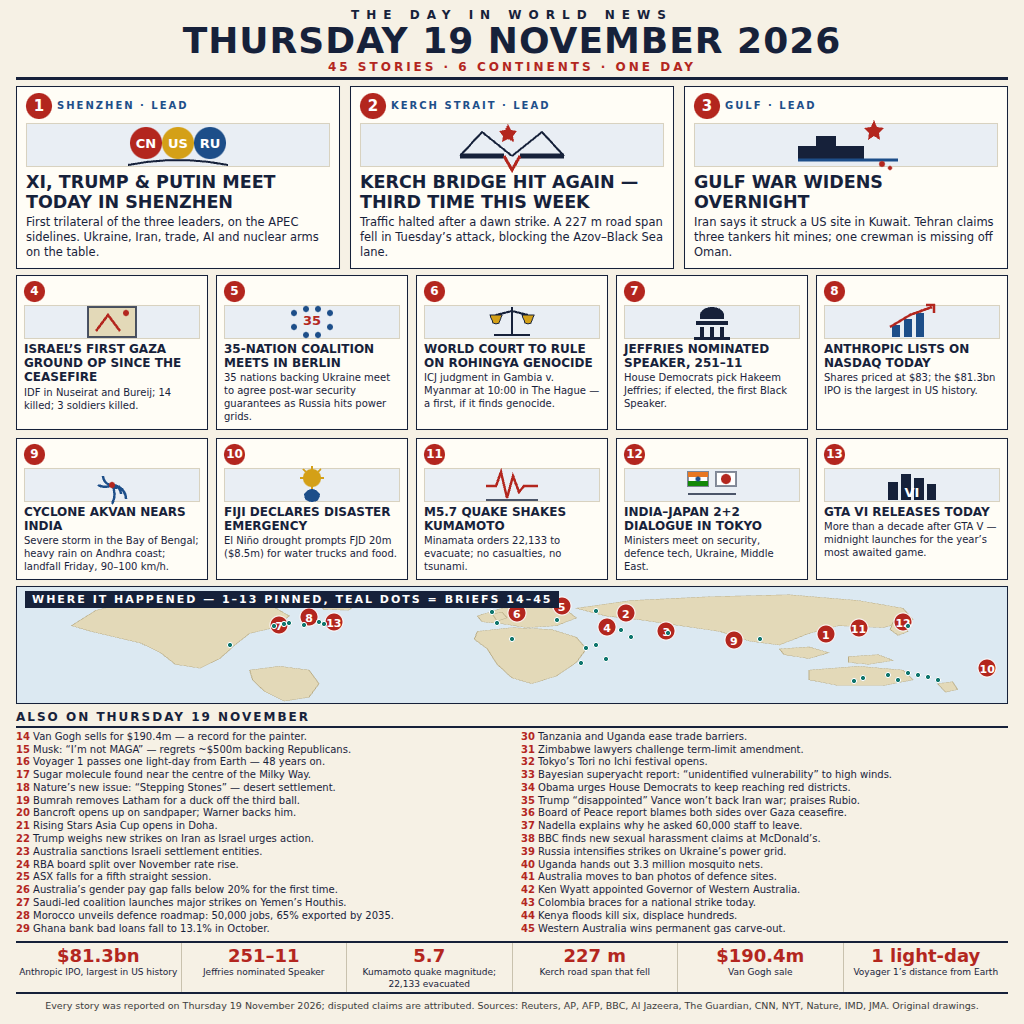
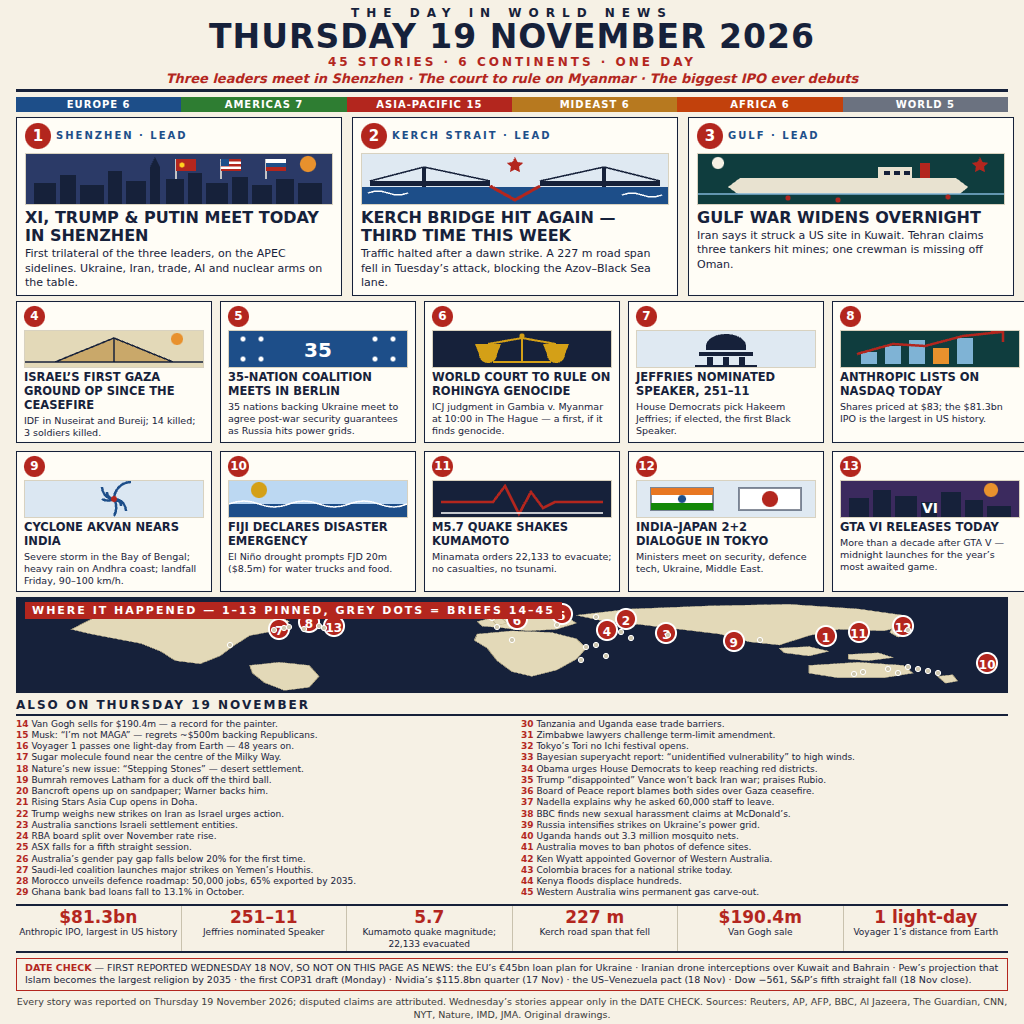
Revise K2 image vs rank 1-3: DATE CHECK strip, region counts, narrative subtitle, full-bleed scene illustrations, dark high-contrast map, drop uncertain toll in brief 44

diff --git a/render.html b/render.html
@@ -5,40 +5,45 @@
 <title>The Day in World News — Thursday 19 November 2026</title>
 <style>
 * { margin:0; padding:0; box-sizing:border-box; }
-body { width:1024px; height:1024px; background:#f6f1e5; color:#16213a; font-family:"DejaVu Sans",Arial,sans-serif; padding:8px 16px 8px; }
+body { width:1024px; height:1024px; background:#f6f1e5; color:#16213a; font-family:"DejaVu Sans",Arial,sans-serif; padding:6px 16px 6px; }
 .masthead { text-align:center; border-bottom:3px solid #16213a; padding-bottom:3px; }
 .kicker { font-size:12px; letter-spacing:7px; font-weight:bold; }
-h1.date { font-size:36px; line-height:1.05; letter-spacing:1px; font-weight:900; }
+h1.date { font-size:33px; line-height:1.05; letter-spacing:1px; font-weight:900; }
 .subline { font-size:12px; letter-spacing:3px; font-weight:bold; color:#b3261e; }
-.leads { display:flex; gap:10px; margin-top:6px; }
-.lead { flex:1; background:#fffdf6; border:1.5px solid #16213a; padding:6px 9px 7px; }
+.subtitle { font-size:13px; font-style:italic; color:#b3261e; margin-top:2px; font-weight:bold; }
+.regions { display:flex; margin-top:5px; }
+.regions span { flex:1; color:#fff; font-size:10px; font-weight:bold; letter-spacing:1px; text-align:center; padding:2px 0; }
+.leads { display:flex; gap:10px; margin-top:5px; }
+.lead { flex:1; background:#fffdf6; border:1.5px solid #16213a; padding:5px 8px 5px; }
 .num { display:inline-block; background:#b3261e; color:#fff; font-weight:bold; width:26px; height:26px; text-align:center; line-height:26px; border-radius:50%; font-size:15px; vertical-align:middle; }
 .tag { font-size:10px; letter-spacing:2px; font-weight:bold; color:#1d4e89; vertical-align:middle; margin-left:5px; }
-.lead h2 { font-size:17.5px; line-height:1.15; margin:5px 0 3px; font-weight:900; }
-.lead p { font-size:11.5px; line-height:1.32; }
-.illus { background:#e9eef4; border:1px solid #d8d2c0; display:flex; align-items:center; justify-content:center; }
-.lead .illus { height:44px; margin-top:4px; }
-.feat-grid { display:grid; grid-template-columns:repeat(5,1fr); gap:8px; margin-top:6px; }
-.feat { background:#fffdf6; border:1.2px solid #16213a; padding:5px 7px; }
+.lead h2 { font-size:16px; line-height:1.15; margin:4px 0 2px; font-weight:900; }
+.lead p { font-size:11px; line-height:1.3; }
+.illus { border:1px solid #d8d2c0; display:flex; align-items:center; justify-content:center; overflow:hidden; }
+.lead .illus { height:52px; margin-top:4px; }
+.feat-grid { display:grid; grid-template-columns:repeat(5,1fr); gap:8px; margin-top:5px; }
+.feat { background:#fffdf6; border:1.2px solid #16213a; padding:4px 7px; }
 .feat .num { width:21px; height:21px; line-height:21px; font-size:12px; }
-.feat .illus { height:34px; margin:3px 0; }
-.feat h3 { font-size:12px; line-height:1.2; font-weight:900; }
-.feat p { font-size:10px; line-height:1.28; margin-top:2px; }
-.map { margin-top:6px; border:1.5px solid #16213a; background:#dce9f2; position:relative; height:118px; overflow:hidden; }
-.map-label { position:absolute; top:4px; left:8px; font-size:11px; letter-spacing:2px; font-weight:bold; background:#16213a; color:#fff; padding:2px 7px; z-index:3; }
+.feat .illus { height:38px; margin:3px 0; }
+.feat h3 { font-size:11.5px; line-height:1.2; font-weight:900; }
+.feat p { font-size:9.5px; line-height:1.25; margin-top:2px; }
+.map { margin-top:5px; border:1.5px solid #16213a; background:#16213a; position:relative; height:96px; overflow:hidden; }
+.map-label { position:absolute; top:4px; left:8px; font-size:11px; letter-spacing:2px; font-weight:bold; background:#b3261e; color:#fff; padding:2px 7px; z-index:3; }
 .map svg { width:100%; height:100%; display:block; }
-.pin { position:absolute; width:19px; height:19px; border-radius:50%; background:#b3261e; color:#fff; font-size:11px; font-weight:bold; text-align:center; line-height:19px; transform:translate(-50%,-50%); border:1.5px solid #fff; z-index:2; }
-.dot { position:absolute; width:6px; height:6px; border-radius:50%; background:#0f766e; transform:translate(-50%,-50%); border:1px solid #fff; z-index:2; }
-.briefs-head { font-size:12px; letter-spacing:2px; font-weight:bold; margin-top:6px; border-bottom:2px solid #16213a; padding-bottom:2px; }
+.pin { position:absolute; width:22px; height:22px; border-radius:50%; background:#b3261e; color:#fff; font-size:12px; font-weight:bold; text-align:center; line-height:22px; transform:translate(-50%,-50%); border:2px solid #fff; z-index:2; }
+.dot { position:absolute; width:6px; height:6px; border-radius:50%; background:#cfc8b0; transform:translate(-50%,-50%); border:1px solid #fff; z-index:2; }
+.briefs-head { font-size:12px; letter-spacing:2px; font-weight:bold; margin-top:5px; border-bottom:2px solid #16213a; padding-bottom:2px; }
 .briefs { display:grid; grid-template-columns:1fr 1fr; gap:0 18px; margin-top:3px; }
-.brief { font-size:10px; line-height:1.28; }
+.brief { font-size:9px; line-height:1.25; }
 .brief b { color:#b3261e; }
-.numbers { display:flex; margin-top:6px; border-top:2px solid #16213a; border-bottom:2px solid #16213a; }
-.num-cell { flex:1; text-align:center; padding:3px 2px 2px; }
+.numbers { display:flex; margin-top:5px; border-top:2px solid #16213a; border-bottom:2px solid #16213a; }
+.num-cell { flex:1; text-align:center; padding:2px 2px 1px; }
 .num-cell + .num-cell { border-left:1px solid #c9c2ae; }
-.num-cell .v { font-size:18px; font-weight:900; color:#b3261e; line-height:1.1; }
+.num-cell .v { font-size:17px; font-weight:900; color:#b3261e; line-height:1.1; }
 .num-cell .l { font-size:9px; line-height:1.25; margin-top:1px; }
-.footer { font-size:9.5px; text-align:center; margin-top:5px; line-height:1.4; color:#3a3a3a; }
+.datecheck { margin-top:5px; border:1.5px solid #b3261e; padding:3px 8px; font-size:9.5px; line-height:1.3; }
+.datecheck b { color:#b3261e; }
+.footer { font-size:9.5px; text-align:center; margin-top:4px; line-height:1.4; color:#3a3a3a; }
 </style>
 </head>
 <body>
@@ -46,24 +51,27 @@ h1.date { font-size:36px; line-height:1.05; letter-spacing:1px; font-weight:900;
   <div class="kicker">THE DAY IN WORLD NEWS</div>
   <h1 class="date">THURSDAY 19 NOVEMBER 2026</h1>
   <div class="subline">45 STORIES &middot; 6 CONTINENTS &middot; ONE DAY</div>
+  <div class="subtitle">Three leaders meet in Shenzhen &middot; The court to rule on Myanmar &middot; The biggest IPO ever debuts</div>
 </div>
+
+<div class="regions"><span style="background:#1d4e89">EUROPE 6</span><span style="background:#2e7d32">AMERICAS 7</span><span style="background:#b3261e">ASIA-PACIFIC 15</span><span style="background:#b7791f">MIDEAST 6</span><span style="background:#c2410c">AFRICA 6</span><span style="background:#6b7280">WORLD 5</span></div>
 
 <div class="leads">
   <div class="lead">
     <span class="num">1</span><span class="tag">SHENZHEN &middot; LEAD</span>
-    <div class="illus"><svg width="120" height="48" viewBox="0 0 120 48"><circle cx="28" cy="22" r="16" fill="#b3261e"/><circle cx="60" cy="22" r="16" fill="#d4a017"/><circle cx="92" cy="22" r="16" fill="#1d4e89"/><text x="28" y="27" font-size="13" font-weight="bold" fill="#fff" text-anchor="middle">CN</text><text x="60" y="27" font-size="13" font-weight="bold" fill="#fff" text-anchor="middle">US</text><text x="92" y="27" font-size="13" font-weight="bold" fill="#fff" text-anchor="middle">RU</text><path d="M10 44 Q60 34 110 44" stroke="#16213a" stroke-width="2" fill="none"/></svg></div>
+    <div class="illus"><svg width="306" height="52" viewBox="0 0 306 52"><rect x="0" y="0" width="306" height="52" fill="#2b3a67"/><circle cx="282" cy="11" r="8" fill="#e8912d"/><g fill="#16213a"><rect x="8" y="30" width="22" height="22"/><rect x="34" y="22" width="16" height="30"/><rect x="54" y="32" width="24" height="20"/><rect x="82" y="18" width="14" height="34"/><rect x="100" y="28" width="20" height="24"/><rect x="124" y="14" width="10" height="38"/><polygon points="124,14 134,14 129,4"/><rect x="140" y="26" width="18" height="26"/><rect x="162" y="20" width="14" height="32"/><rect x="180" y="30" width="22" height="22"/><rect x="206" y="24" width="16" height="28"/><rect x="226" y="32" width="20" height="20"/><rect x="250" y="26" width="18" height="26"/><rect x="272" y="30" width="24" height="22"/></g><g stroke="#f6f1e5" stroke-width="1.5"><line x1="150" y1="6" x2="150" y2="26"/><line x1="195" y1="6" x2="195" y2="26"/><line x1="240" y1="6" x2="240" y2="26"/></g><rect x="150" y="6" width="20" height="12" fill="#b3261e"/><circle cx="156" cy="12" r="2.5" fill="#ffd21f"/><rect x="195" y="6" width="20" height="12" fill="#fff"/><rect x="195" y="6" width="20" height="2.5" fill="#b3261e"/><rect x="195" y="11" width="20" height="2.5" fill="#b3261e"/><rect x="195" y="16" width="20" height="2" fill="#b3261e"/><rect x="195" y="6" width="8" height="7" fill="#1d4e89"/><rect x="240" y="6" width="20" height="4" fill="#fff"/><rect x="240" y="10" width="20" height="4" fill="#1d4e89"/><rect x="240" y="14" width="20" height="4" fill="#b3261e"/></svg></div>
     <h2>XI, TRUMP &amp; PUTIN MEET TODAY IN SHENZHEN</h2>
     <p>First trilateral of the three leaders, on the APEC sidelines. Ukraine, Iran, trade, AI and nuclear arms on the table.</p>
   </div>
   <div class="lead">
     <span class="num">2</span><span class="tag">KERCH STRAIT &middot; LEAD</span>
-    <div class="illus"><svg width="120" height="66" viewBox="0 0 120 66"><path d="M8 44 H52 M68 44 H112" stroke="#16213a" stroke-width="5"/><path d="M8 44 L30 20 L60 44 M60 44 L90 20 L112 44" stroke="#16213a" stroke-width="2" fill="none"/><path d="M52 44 L60 58 L68 44" stroke="#b3261e" stroke-width="3" fill="none"/><path d="M56 12 l3 6 6 1 -4 5 1 6 -6 -3 -6 3 1 -6 -4 -5 6 -1z" fill="#b3261e"/></svg></div>
+    <div class="illus"><svg width="306" height="52" viewBox="0 0 306 52"><rect x="0" y="0" width="306" height="52" fill="#dfe9f2"/><rect x="0" y="34" width="306" height="18" fill="#1d4e89"/><path d="M6 40 q10 -4 20 0 q10 4 20 0 M260 42 q10 -4 20 0 q10 4 20 0" stroke="#fff" stroke-width="1.5" fill="none"/><rect x="8" y="28" width="120" height="5" fill="#16213a"/><rect x="178" y="28" width="120" height="5" fill="#16213a"/><rect x="60" y="14" width="4" height="20" fill="#16213a"/><rect x="240" y="14" width="4" height="20" fill="#16213a"/><path d="M62 14 L8 28 M62 14 L128 28 M242 14 L178 28 M242 14 L298 28" stroke="#16213a" stroke-width="1.5" fill="none"/><path d="M128 33 L153 47 L178 33" stroke="#b3261e" stroke-width="3" fill="none"/><path d="M153 4 l2.5 5 5.5 0.8 -4 3.9 1 5.5 -5 -2.6 -5 2.6 1 -5.5 -4 -3.9 5.5 -0.8z" fill="#b3261e"/></svg></div>
     <h2>KERCH BRIDGE HIT AGAIN &mdash; THIRD TIME THIS WEEK</h2>
     <p>Traffic halted after a dawn strike. A 227 m road span fell in Tuesday&rsquo;s attack, blocking the Azov&ndash;Black Sea lane.</p>
   </div>
   <div class="lead">
     <span class="num">3</span><span class="tag">GULF &middot; LEAD</span>
-    <div class="illus"><svg width="120" height="66" viewBox="0 0 120 66"><rect x="12" y="34" width="66" height="14" fill="#16213a"/><rect x="30" y="24" width="20" height="10" fill="#16213a"/><path d="M12 48 H112" stroke="#1d4e89" stroke-width="3"/><path d="M88 8 l3 7 7 1 -5 5 1 7 -6 -4 -6 4 1 -7 -5 -5 7 -1z" fill="#b3261e"/><circle cx="96" cy="52" r="3" fill="#b3261e"/><circle cx="104" cy="56" r="2" fill="#b3261e"/></svg></div>
+    <div class="illus"><svg width="306" height="52" viewBox="0 0 306 52"><rect x="0" y="0" width="306" height="52" fill="#0f3d3e"/><circle cx="20" cy="10" r="6" fill="#f6f1e5"/><path d="M282 4 l2.5 5 5.5 0.8 -4 3.9 1 5.5 -5 -2.6 -5 2.6 1 -5.5 -4 -3.9 5.5 -0.8z" fill="#b3261e"/><polygon points="30,34 42,25 258,25 270,34 262,41 40,41" fill="#e8e2d0"/><rect x="180" y="14" width="34" height="11" fill="#e8e2d0"/><rect x="222" y="10" width="10" height="15" fill="#b3261e"/><g fill="#16213a"><rect x="186" y="18" width="6" height="4"/><rect x="196" y="18" width="6" height="4"/><rect x="206" y="18" width="6" height="4"/></g><path d="M0 41 H306" stroke="#7fb3d5" stroke-width="1.5"/><circle cx="90" cy="45" r="2.5" fill="#b3261e"/><circle cx="140" cy="47" r="2.5" fill="#b3261e"/><circle cx="250" cy="44" r="2.5" fill="#b3261e"/></svg></div>
     <h2>GULF WAR WIDENS OVERNIGHT</h2>
     <p>Iran says it struck a US site in Kuwait. Tehran claims three tankers hit mines; one crewman is missing off Oman.</p>
   </div>
@@ -72,68 +80,68 @@ h1.date { font-size:36px; line-height:1.05; letter-spacing:1px; font-weight:900;
 <div class="feat-grid">
   <div class="feat">
     <span class="num">4</span>
-    <div class="illus"><svg width="60" height="42" viewBox="0 0 60 42"><rect x="6" y="6" width="48" height="30" fill="#e3d9b8" stroke="#16213a" stroke-width="1.5"/><path d="M14 30 L26 14 L38 30" stroke="#b3261e" stroke-width="2.5" fill="none"/><circle cx="44" cy="12" r="3" fill="#b3261e"/></svg></div>
+    <div class="illus"><svg width="178" height="38" viewBox="0 0 178 38"><rect x="0" y="0" width="178" height="38" fill="#e3d9b8"/><circle cx="152" cy="9" r="6" fill="#e8912d"/><polygon points="30,32 89,8 148,32" fill="#c9a86a" stroke="#16213a" stroke-width="1.5"/><path d="M89 8 L89 32" stroke="#16213a" stroke-width="1.5"/><path d="M0 32 H178" stroke="#16213a" stroke-width="1.5"/></svg></div>
     <h3>ISRAEL&rsquo;S FIRST GAZA GROUND OP SINCE THE CEASEFIRE</h3>
     <p>IDF in Nuseirat and Bureij; 14 killed; 3 soldiers killed.</p>
   </div>
   <div class="feat">
     <span class="num">5</span>
-    <div class="illus"><svg width="60" height="42" viewBox="0 0 60 42"><g fill="#1d4e89"><circle cx="12" cy="12" r="3"/><circle cx="24" cy="8" r="3"/><circle cx="36" cy="8" r="3"/><circle cx="48" cy="12" r="3"/><circle cx="12" cy="26" r="3"/><circle cx="48" cy="26" r="3"/><circle cx="24" cy="34" r="3"/><circle cx="36" cy="34" r="3"/></g><text x="30" y="24" font-size="13" font-weight="bold" fill="#b3261e" text-anchor="middle">35</text></svg></div>
+    <div class="illus"><svg width="178" height="38" viewBox="0 0 178 38"><rect x="0" y="0" width="178" height="38" fill="#1d4e89"/><g fill="#fff"><circle cx="14" cy="9" r="2.5"/><circle cx="32" cy="9" r="2.5"/><circle cx="146" cy="9" r="2.5"/><circle cx="164" cy="9" r="2.5"/><circle cx="14" cy="29" r="2.5"/><circle cx="32" cy="29" r="2.5"/><circle cx="146" cy="29" r="2.5"/><circle cx="164" cy="29" r="2.5"/></g><text x="89" y="27" font-size="20" font-weight="bold" fill="#fff" text-anchor="middle">35</text></svg></div>
     <h3>35-NATION COALITION MEETS IN BERLIN</h3>
     <p>35 nations backing Ukraine meet to agree post-war security guarantees as Russia hits power grids.</p>
   </div>
   <div class="feat">
     <span class="num">6</span>
-    <div class="illus"><svg width="60" height="42" viewBox="0 0 60 42"><path d="M30 6 V34 M12 34 H48" stroke="#16213a" stroke-width="2"/><path d="M30 10 L14 14 M30 10 L46 14" stroke="#16213a" stroke-width="2"/><path d="M8 14 h12 l-3 8 a6 6 0 0 1 -6 0 z M40 14 h12 l-3 8 a6 6 0 0 1 -6 0 z" fill="#d4a017" stroke="#16213a" stroke-width="1"/></svg></div>
+    <div class="illus"><svg width="178" height="38" viewBox="0 0 178 38"><rect x="0" y="0" width="178" height="38" fill="#16213a"/><g stroke="#d4a017" stroke-width="2" fill="none"><path d="M89 4 V32 M60 32 H118 M89 8 L55 14 M89 8 L123 14"/></g><path d="M42 14 h26 l-4 10 a9 9 0 0 1 -18 0 z" fill="#d4a017"/><path d="M110 14 h26 l-4 10 a9 9 0 0 1 -18 0 z" fill="#d4a017"/><circle cx="89" cy="6" r="2.5" fill="#d4a017"/></svg></div>
     <h3>WORLD COURT TO RULE ON ROHINGYA GENOCIDE</h3>
     <p>ICJ judgment in Gambia v. Myanmar at 10:00 in The Hague &mdash; a first, if it finds genocide.</p>
   </div>
   <div class="feat">
     <span class="num">7</span>
-    <div class="illus"><svg width="60" height="42" viewBox="0 0 60 42"><path d="M30 6 a12 8 0 0 1 12 8 v4 H18 v-4 a12 8 0 0 1 12 -8z" fill="#16213a"/><rect x="14" y="20" width="32" height="4" fill="#16213a"/><rect x="18" y="26" width="4" height="10" fill="#16213a"/><rect x="28" y="26" width="4" height="10" fill="#16213a"/><rect x="38" y="26" width="4" height="10" fill="#16213a"/><rect x="12" y="36" width="36" height="3" fill="#16213a"/></svg></div>
+    <div class="illus"><svg width="178" height="38" viewBox="0 0 178 38"><rect x="0" y="0" width="178" height="38" fill="#dfe9f2"/><path d="M89 4 a20 12 0 0 1 20 12 v4 H69 v-4 a20 12 0 0 1 20 -12z" fill="#16213a"/><rect x="62" y="22" width="54" height="4" fill="#16213a"/><rect x="70" y="27" width="6" height="8" fill="#16213a"/><rect x="86" y="27" width="6" height="8" fill="#16213a"/><rect x="102" y="27" width="6" height="8" fill="#16213a"/><rect x="58" y="35" width="62" height="3" fill="#16213a"/></svg></div>
     <h3>JEFFRIES NOMINATED SPEAKER, 251&ndash;11</h3>
     <p>House Democrats pick Hakeem Jeffries; if elected, the first Black Speaker.</p>
   </div>
   <div class="feat">
     <span class="num">8</span>
-    <div class="illus"><svg width="60" height="42" viewBox="0 0 60 42"><rect x="10" y="24" width="8" height="12" fill="#1d4e89"/><rect x="22" y="18" width="8" height="18" fill="#1d4e89"/><rect x="34" y="12" width="8" height="24" fill="#1d4e89"/><path d="M8 26 L28 14 L50 6" stroke="#b3261e" stroke-width="2.5" fill="none"/><path d="M44 4 h8 v8" stroke="#b3261e" stroke-width="2.5" fill="none"/></svg></div>
+    <div class="illus"><svg width="178" height="38" viewBox="0 0 178 38"><rect x="0" y="0" width="178" height="38" fill="#0f3d3e"/><rect x="20" y="22" width="16" height="12" fill="#7fb3d5"/><rect x="44" y="16" width="16" height="18" fill="#7fb3d5"/><rect x="68" y="10" width="16" height="24" fill="#7fb3d5"/><rect x="92" y="18" width="16" height="16" fill="#e8912d"/><rect x="116" y="8" width="16" height="26" fill="#7fb3d5"/><path d="M16 24 L52 14 L84 16 L122 6 L160 2" stroke="#b3261e" stroke-width="2.5" fill="none"/><path d="M150 2 h12 v10" stroke="#b3261e" stroke-width="2.5" fill="none"/></svg></div>
     <h3>ANTHROPIC LISTS ON NASDAQ TODAY</h3>
     <p>Shares priced at $83; the $81.3bn IPO is the largest in US history.</p>
   </div>
   <div class="feat">
     <span class="num">9</span>
-    <div class="illus"><svg width="60" height="42" viewBox="0 0 60 42"><path d="M30 21 a4 4 0 0 1 4 4 M30 21 a9 9 0 0 1 9 9 M30 21 a14 14 0 0 1 14 14 M30 21 a19 19 0 0 1 0 19 M30 21 a14 14 0 0 1 -14 0 M30 21 a9 9 0 0 1 -9 -9" stroke="#1d4e89" stroke-width="2.5" fill="none"/><circle cx="30" cy="21" r="3" fill="#b3261e"/></svg></div>
+    <div class="illus"><svg width="178" height="38" viewBox="0 0 178 38"><rect x="0" y="0" width="178" height="38" fill="#dbe7f2"/><path d="M89 19 a3 3 0 0 1 3 3 M89 19 a7 7 0 0 1 7 7 M89 19 a12 12 0 0 1 12 12 M89 19 a17 17 0 0 1 0 17 M89 19 a12 12 0 0 1 -12 0 M89 19 a7 7 0 0 1 -7 -7 M89 19 a17 17 0 0 1 17 -17 M89 19 a12 12 0 0 1 -12 -12" stroke="#1d4e89" stroke-width="2.5" fill="none"/><circle cx="89" cy="19" r="3" fill="#b3261e"/></svg></div>
     <h3>CYCLONE AKVAN NEARS INDIA</h3>
     <p>Severe storm in the Bay of Bengal; heavy rain on Andhra coast; landfall Friday, 90&ndash;100 km/h.</p>
   </div>
   <div class="feat">
     <span class="num">10</span>
-    <div class="illus"><svg width="60" height="42" viewBox="0 0 60 42"><circle cx="30" cy="14" r="9" fill="#d4a017"/><g stroke="#d4a017" stroke-width="2"><path d="M30 2 v4 M30 22 v4 M18 14 h4 M38 14 h4 M21 5 l3 3 M39 5 l-3 3"/></g><path d="M22 30 q8 -10 16 0 q0 8 -8 8 q-8 0 -8 -8z" fill="#1d4e89"/></svg></div>
+    <div class="illus"><svg width="178" height="38" viewBox="0 0 178 38"><rect x="0" y="0" width="178" height="24" fill="#bcd8f2"/><rect x="0" y="24" width="178" height="14" fill="#1d4e89"/><circle cx="30" cy="10" r="8" fill="#d4a017"/><path d="M0 24 q15 -6 30 0 q15 6 30 0 q15 -6 30 0 q15 6 30 0 q15 -6 30 0 q15 6 28 0" stroke="#fff" stroke-width="1.5" fill="none"/></svg></div>
     <h3>FIJI DECLARES DISASTER EMERGENCY</h3>
     <p>El Ni&ntilde;o drought prompts FJD 20m ($8.5m) for water trucks and food.</p>
   </div>
   <div class="feat">
     <span class="num">11</span>
-    <div class="illus"><svg width="60" height="42" viewBox="0 0 60 42"><path d="M4 22 H14 L19 8 L25 34 L31 12 L37 28 L42 22 H56" stroke="#b3261e" stroke-width="2.5" fill="none"/><path d="M4 36 H56" stroke="#16213a" stroke-width="1.5"/></svg></div>
+    <div class="illus"><svg width="178" height="38" viewBox="0 0 178 38"><rect x="0" y="0" width="178" height="38" fill="#16213a"/><path d="M8 22 H60 L72 6 L86 34 L98 12 L110 28 L122 22 H170" stroke="#b3261e" stroke-width="2.5" fill="none"/><path d="M8 33 H170" stroke="#fff" stroke-width="1.5"/></svg></div>
     <h3>M5.7 QUAKE SHAKES KUMAMOTO</h3>
     <p>Minamata orders 22,133 to evacuate; no casualties, no tsunami.</p>
   </div>
   <div class="feat">
     <span class="num">12</span>
-    <div class="illus"><svg width="60" height="42" viewBox="0 0 60 42"><rect x="6" y="8" width="20" height="14" fill="#fff" stroke="#16213a" stroke-width="1"/><rect x="6" y="8" width="20" height="5" fill="#e87722"/><rect x="6" y="17" width="20" height="5" fill="#138808"/><circle cx="16" cy="15" r="2.5" fill="#1d4e89"/><rect x="34" y="8" width="20" height="14" fill="#fff" stroke="#16213a" stroke-width="1"/><circle cx="44" cy="15" r="5" fill="#b3261e"/><path d="M6 30 H54" stroke="#16213a" stroke-width="1.5"/></svg></div>
+    <div class="illus"><svg width="178" height="38" viewBox="0 0 178 38"><rect x="0" y="0" width="178" height="38" fill="#dfe9f2"/><rect x="14" y="8" width="62" height="22" fill="#fff" stroke="#16213a" stroke-width="1"/><rect x="14" y="8" width="62" height="7" fill="#e87722"/><rect x="14" y="23" width="62" height="7" fill="#138808"/><circle cx="45" cy="19" r="4" fill="#1d4e89"/><rect x="102" y="8" width="62" height="22" fill="#fff" stroke="#16213a" stroke-width="1"/><circle cx="133" cy="19" r="8" fill="#b3261e"/></svg></div>
     <h3>INDIA&ndash;JAPAN 2+2 DIALOGUE IN TOKYO</h3>
     <p>Ministers meet on security, defence tech, Ukraine, Middle East.</p>
   </div>
   <div class="feat">
     <span class="num">13</span>
-    <div class="illus"><svg width="60" height="42" viewBox="0 0 60 42"><rect x="6" y="18" width="10" height="18" fill="#16213a"/><rect x="19" y="10" width="10" height="26" fill="#16213a"/><rect x="32" y="14" width="10" height="22" fill="#16213a"/><rect x="45" y="20" width="9" height="16" fill="#16213a"/><text x="30" y="33" font-size="13" font-weight="bold" fill="#fff" text-anchor="middle">VI</text></svg></div>
+    <div class="illus"><svg width="178" height="38" viewBox="0 0 178 38"><rect x="0" y="0" width="178" height="38" fill="#3b2a5e"/><circle cx="150" cy="10" r="7" fill="#e8912d"/><g fill="#16213a"><rect x="8" y="18" width="20" height="20"/><rect x="32" y="10" width="18" height="28"/><rect x="54" y="16" width="22" height="22"/><rect x="80" y="22" width="16" height="16"/><rect x="100" y="12" width="20" height="26"/><rect x="124" y="20" width="18" height="18"/><rect x="146" y="26" width="24" height="12"/></g><text x="89" y="33" font-size="14" font-weight="bold" fill="#fff" text-anchor="middle">VI</text></svg></div>
     <h3>GTA VI RELEASES TODAY</h3>
     <p>More than a decade after GTA V &mdash; midnight launches for the year&rsquo;s most awaited game.</p>
   </div>
 </div>
 
 <div class="map">
-  <div class="map-label">WHERE IT HAPPENED &mdash; 1&ndash;13 PINNED, TEAL DOTS = BRIEFS 14&ndash;45</div>
+  <div class="map-label">WHERE IT HAPPENED &mdash; 1&ndash;13 PINNED, GREY DOTS = BRIEFS 14&ndash;45</div>
   <svg viewBox="0 0 1000 300" preserveAspectRatio="none">
     <polygon points="55,100 80,60 120,35 170,20 220,25 255,45 275,75 260,105 235,120 220,150 205,185 185,210 160,200 145,170 125,145 100,130 75,115" fill="#e3d9b8" stroke="#b9ac86" stroke-width="1"/>
     <polygon points="300,35 325,25 345,40 335,60 310,58" fill="#e3d9b8" stroke="#b9ac86" stroke-width="1"/>
@@ -213,7 +221,7 @@ h1.date { font-size:36px; line-height:1.05; letter-spacing:1px; font-weight:900;
     <div class="brief"><b>41</b> Australia moves to ban photos of defence sites.</div>
     <div class="brief"><b>42</b> Ken Wyatt appointed Governor of Western Australia.</div>
     <div class="brief"><b>43</b> Colombia braces for a national strike today.</div>
-    <div class="brief"><b>44</b> Kenya floods kill six, displace hundreds.</div>
+    <div class="brief"><b>44</b> Kenya floods displace hundreds.</div>
     <div class="brief"><b>45</b> Western Australia wins permanent gas carve-out.</div>
   </div>
 </div>
@@ -227,6 +235,8 @@ h1.date { font-size:36px; line-height:1.05; letter-spacing:1px; font-weight:900;
   <div class="num-cell"><div class="v">1 light-day</div><div class="l">Voyager 1&rsquo;s distance from Earth</div></div>
 </div>
 
-<div class="footer">Every story was reported on Thursday 19 November 2026; disputed claims are attributed. Sources: Reuters, AP, AFP, BBC, Al Jazeera, The Guardian, CNN, NYT, Nature, IMD, JMA. Original drawings.</div>
+<div class="datecheck"><b>DATE CHECK</b> &mdash; FIRST REPORTED WEDNESDAY 18 NOV, SO NOT ON THIS PAGE AS NEWS: the EU&rsquo;s &euro;45bn loan plan for Ukraine &middot; Iranian drone interceptions over Kuwait and Bahrain &middot; Pew&rsquo;s projection that Islam becomes the largest religion by 2035 &middot; the first COP31 draft (Monday) &middot; Nvidia&rsquo;s $115.8bn quarter (17 Nov) &middot; the US&ndash;Venezuela pact (18 Nov) &middot; Dow &minus;561, S&amp;P&rsquo;s fifth straight fall (18 Nov close).</div>
+
+<div class="footer">Every story was reported on Thursday 19 November 2026; disputed claims are attributed. Wednesday&rsquo;s stories appear only in the DATE CHECK. Sources: Reuters, AP, AFP, BBC, Al Jazeera, The Guardian, CNN, NYT, Nature, IMD, JMA. Original drawings.</div>
 </body>
 </html>

diff --git a/RESEARCH.md b/RESEARCH.md
@@ -85,7 +85,11 @@ Nation front page of 19 Nov ("floods that killed six and displaced hundreds").
 41. Australia moves to ban photos of defence sites. Source: The West.
 42. Ken Wyatt appointed Governor of Western Australia. Source: NewsHub.
 43. Colombia braces for a national strike today. Sources: Colombia Unfiltered, US State Dept.
-44. Kenya floods kill six, displace hundreds. Sources: Daily Nation / The Standard, front pages 19 Nov (re-verified at build time).
+44. Kenya floods displace hundreds. Sources: Daily Nation / The Standard,
+front pages 19 Nov (re-verified at build time). NOTE (revisi 19 Nov ~11:20
+WIB): angka korban DIHAPUS dari gambar — tidak pasti (Daily Nation: enam;
+laporan lain 17 Nov: 37 tewas di Nairobi saja; angka "18" dari cek otomatis
+ternyata artikel Mei 2026, JANGAN dipakai).
 45. Western Australia wins permanent gas carve-out. Source: The West.
 
 ## Coverage
